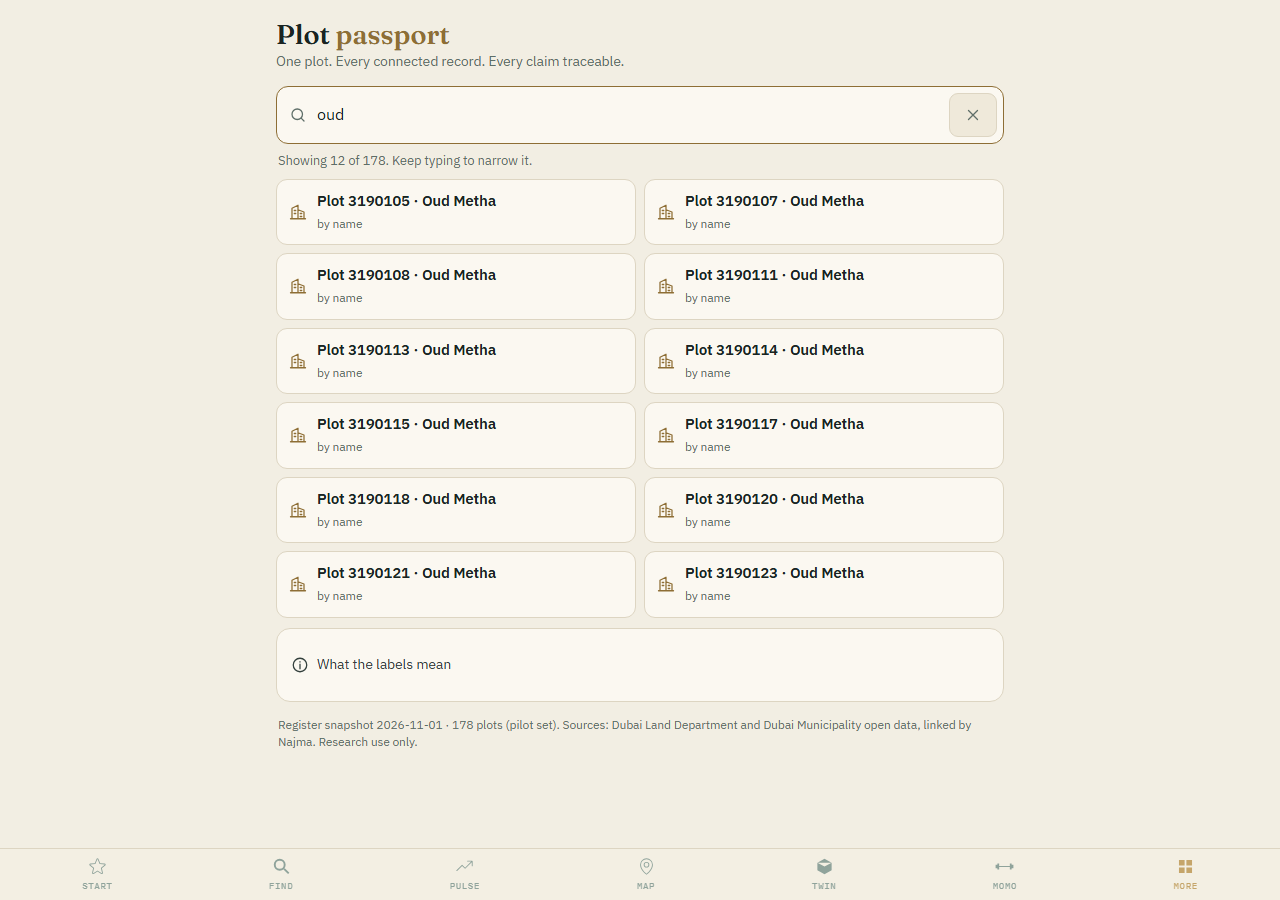
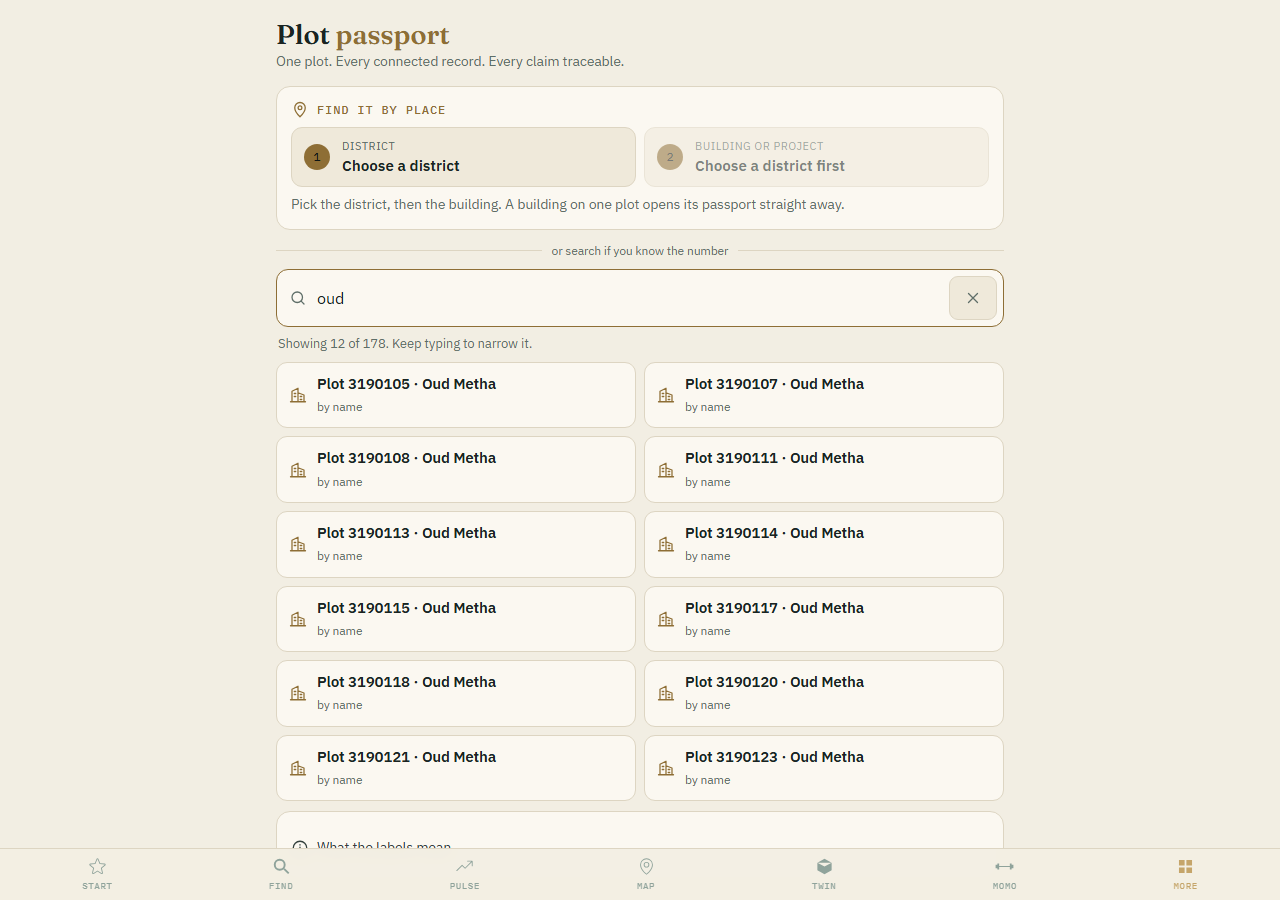
Plot Passport: browse by place (district -> building/project -> plot) in sheets with type-ahead, vacant-land option, single-plot auto-open, breadcrumb; pp_dl/pp_d_<district> routes. Not deployed.

Changed region(s): [[0.2188, 0.0933, 0.7812, 0.8711], [0.75, 0.0933, 0.7812, 0.1244]]

diff --git a/src/plot_passport.js b/src/plot_passport.js
@@ -121,6 +121,25 @@ h1{font-family:Fraunces,Georgia,serif;font-size:1.7rem;font-weight:600;margin:.2
 .legend .row{display:flex;gap:10px;align-items:flex-start;margin:8px 0;font-size:.84rem;color:var(--soft)}
 .note{color:var(--muted);font-size:.74rem;margin:14px 2px}
 .inf{border-style:dashed}
+.browse h2{margin-bottom:8px}.steps{display:grid;grid-template-columns:1fr;gap:8px}@media(min-width:620px){.steps{grid-template-columns:1fr 1fr}}
+.step{display:flex;gap:12px;align-items:center;text-align:left;min-height:60px;padding:10px 12px;border:1px solid var(--line);border-radius:11px;background:var(--raise);color:var(--ink);font:inherit;cursor:pointer;width:100%}
+.step:hover,.step:focus-visible{border-color:var(--gold)}.step:disabled{opacity:.55;cursor:default}
+.step .sn{flex:none;width:26px;height:26px;border-radius:50%;background:var(--gold);color:#0C1413;font-family:"IBM Plex Mono",monospace;font-size:.75rem;display:flex;align-items:center;justify-content:center}
+.step small{display:block;color:var(--muted);font-size:.7rem;letter-spacing:.04em}.step b{display:block;font-size:.95rem;overflow-wrap:anywhere}
+.or{display:flex;align-items:center;gap:10px;color:var(--muted);font-size:.74rem;margin:4px 0 10px}.or:before,.or:after{content:"";flex:1;height:1px;background:var(--line)}
+.scrim{position:fixed;inset:0;background:rgba(0,0,0,.45);z-index:60}.scrim[hidden],.sheet[hidden]{display:none}
+.sheet{position:fixed;left:0;right:0;bottom:0;z-index:61;max-height:86vh;display:flex;flex-direction:column;background:var(--card);border-top:1px solid var(--line);border-radius:16px 16px 0 0;padding:10px 16px calc(14px + env(safe-area-inset-bottom));box-shadow:0 -8px 30px rgba(0,0,0,.35)}
+@media(min-width:760px){.sheet{left:50%;right:auto;bottom:auto;top:8vh;width:560px;transform:translateX(-50%);border-radius:16px;border:1px solid var(--line);max-height:80vh}}
+.sheet .grab{width:40px;height:4px;border-radius:2px;background:var(--line);margin:0 auto 8px}
+.shd{display:flex;align-items:center;gap:8px;margin:0 0 8px}.shd b{flex:1;font-family:Fraunces,Georgia,serif;font-size:1.15rem}
+.sheet input{min-height:48px;border:1px solid var(--line);border-radius:10px;background:var(--raise);color:var(--ink);font:inherit;font-size:16px;padding:0 12px;width:100%}
+.sheet input:focus{outline:none;border-color:var(--gold)}
+.shl{overflow:auto;-webkit-overflow-scrolling:touch;margin-top:8px;flex:1}
+.opt{display:flex;gap:10px;align-items:center;width:100%;text-align:left;min-height:52px;padding:8px 10px;margin:0 0 6px;border:1px solid var(--line);border-radius:10px;background:var(--raise);color:var(--ink);font:inherit;cursor:pointer}
+.opt:hover,.opt:focus-visible{border-color:var(--gold)}.opt .ic{color:var(--gold)}.opt b{display:block;font-size:.92rem;overflow-wrap:anywhere}.opt small{color:var(--muted);font-size:.74rem}.opt.sp{border-style:dashed}
+.crumb{display:flex;flex-wrap:wrap;align-items:center;gap:4px;margin:0 0 10px;font-size:.82rem;color:var(--muted)}
+.crumb button{min-height:36px;padding:0 8px;border:0;border-radius:8px;background:transparent;color:var(--gold);font:inherit;font-weight:600;cursor:pointer;text-decoration:underline;text-underline-offset:3px}
+.crumb span[aria-current]{color:var(--ink);font-weight:600;padding:0 4px}
 `;
 
 const PP_JS = String.raw`(function(){
@@ -150,10 +169,10 @@ function search(){var v=q.value.trim();clr.hidden=!v;if(T)clearTimeout(T);if(v.l
       say(j.total>j.results.length?("Showing "+j.results.length+" of "+j.total+". Keep typing to narrow it."):(j.total===1?"One plot matches.":j.total+" plots match."));
       sug.innerHTML=j.results.map(function(r){return '<button type=button class=sg data-id="'+esc(r.id)+'">'+ic(r.kind==="name"?"bldg":"pin")+'<span><b>'+esc(r.label)+'</b><small>'+(r.kind==="name"?"by name":"by number")+'</small></span></button>'}).join("")}).catch(function(){say("Search is not reachable just now. Try again in a moment.")})},180)}
 
-function open(id,push){say("Opening the passport…");sug.innerHTML="";
+var CTX={};function open(id,push,ctx){CTX=ctx||{d:null,g:null};closeSheet();say("Opening the passport…");sug.innerHTML="";
   fetch("/plot_passport/p?"+kq()+"&id="+encodeURIComponent(id)).then(function(r){return r.json()}).then(function(j){if(!j.ok){say(j.error||"That plot is not in the passport data.");return}
     CUR=j.plot;say("");render();if(push!==false){try{history.pushState({id:id},"","/plot_passport?"+kq()+"&id="+encodeURIComponent(id))}catch(e){}}
-    var s=$("pp-sum");if(s)s.scrollIntoView({block:"start"})}).catch(function(){say("The passport could not be opened just now.")})}
+    var s=$("pp-crumb");if(s)s.scrollIntoView({block:"start"})}).catch(function(){say("The passport could not be opened just now.")})}
 
 function sentence(p){var a=[];var sq=p.sqm?(num(Math.round(p.sqm))+" sq m ("+num(Math.round(p.sqm*10.7639))+" sq ft)"):null;
   var use=(p.sub_type||p.land_type||"").toLowerCase();
@@ -167,7 +186,9 @@ function sentence(p){var a=[];var sq=p.sqm?(num(Math.round(p.sqm))+" sq m ("+num
   return a.join(" ")}
 
 function render(){var p=CUR;if(!p)return;var ttl="Plot "+(p.parcel||p.plot_no||p.id.replace("naj:plot:",""));document.title=ttl+" — Plot passport";
-  var h='<section class="card sum" id=pp-sum><p class=t>'+esc(ttl)+'</p><div class=w>'+esc([p.area_name,p.master||p.project].filter(Boolean).join(" · "))+'</div><p>'+esc(sentence(p))+'</p>'
+  var dn=CTX.d?CTX.d.name:(p.area_name||"District"),gn=CTX.g?CTX.g.name:null;
+  var h='<nav class=crumb id=pp-crumb aria-label="Where this plot sits"><button type=button data-crumb=d>'+esc(dn)+'</button><span aria-hidden=true>›</span>'+(gn?'<button type=button data-crumb=g>'+esc(gn)+'</button><span aria-hidden=true>›</span>':'')+'<span aria-current=page>'+esc(ttl)+'</span></nav>';
+  h+='<section class="card sum" id=pp-sum><p class=t>'+esc(ttl)+'</p><div class=w>'+esc([p.area_name,p.master||p.project].filter(function(v,i,a){return v&&a.indexOf(v)===i}).join(" · "))+'</div><p>'+esc(sentence(p))+'</p>'
    +'<div class=acts><a class="btn pri" target=_blank rel=noopener href="/plot_passport/report?'+kq()+'&id='+encodeURIComponent(p.id)+'">'+ic("print")+'Research report</a><button type=button class=btn id=ppcopy>'+ic("copy")+'Copy link</button></div></section>';
   h+='<nav class=jump aria-label="Sections"><a href="#pp-land">Land</a><a href="#pp-proj">Projects</a><a href="#pp-perm">Permits</a><a href="#pp-bldg">Buildings</a><a href="#pp-tl">Timeline</a><a href="#pp-src">Sources</a></nav>';
   h+='<div class=seg role=group aria-label="What to show"><button type=button data-view=d aria-pressed='+(VIEW==="d")+'>Direct facts</button><button type=button data-view=all aria-pressed='+(VIEW==="all")+'>Everything we hold</button></div>';
@@ -195,7 +216,35 @@ document.addEventListener("click",function(e){var t=e.target.closest("button,a")
   if(t.hasAttribute("data-more")){var c=t.parentNode;[].forEach.call(c.querySelectorAll(".it[data-x],li[data-x]"),function(n){n.hidden=false});t.remove();return}
   if(t.hasAttribute("data-det")){var d=t.parentNode.querySelector(".m[data-x]");if(d){d.hidden=!d.hidden;t.textContent=d.hidden?"How it was linked":"Hide"}return}
   if(t.id==="ppcopy"){try{navigator.clipboard.writeText(location.href);t.lastChild.textContent="Link copied"}catch(err){}return}
+  if(t.hasAttribute("data-opt")){var o=SH[+t.getAttribute("data-opt")];if(o)o.fn();return}
+  if(t.id==="ppshx"){closeSheet();return}
+  if(t.id==="ppb1"){districts();return}
+  if(t.id==="ppb2"){groups();return}
+  if(t.hasAttribute("data-crumb")){if(t.getAttribute("data-crumb")==="g"&&CTX.g){DC=CTX.d;pickG(CTX.g);return}
+    var sl=(CTX.d&&CTX.d.slug)||(CUR&&CUR.district);if(sl)pickD(sl);else districts();return}
   if(t.id==="ppclr"){q.value="";search();q.focus();return}});
+var sh=$("ppsheet"),scr=$("ppscrim"),shq=$("ppshq"),shl=$("ppshl"),SH=[],SHBACK=null,DL=null,DC=null,DCACHE={};
+function nq(s){return String(s||"").toLowerCase().replace(/[^a-z0-9]+/g," ").trim()}
+function hit(o,f){return !f||o.sticky||(" "+nq(o.t)).indexOf(" "+f)>=0||nq(o.t).indexOf(f)>=0}
+function drawSheet(){var f=nq(shq.value),n=0,m=0,h="";SH.forEach(function(o,i){if(!hit(o,f))return;if(!o.sticky)m++;if(n>=150)return;n++;h+='<button type=button class="opt'+(o.sticky?" sp":"")+'" data-opt="'+i+'">'+ic(o.i||"pin")+'<span><b>'+esc(o.t)+'</b>'+(o.s?'<small>'+esc(o.s)+'</small>':'')+'</span></button>'});
+  shl.innerHTML=h+(m>150?'<p class=empty>'+m+' match. Type more letters to narrow the list.</p>':'')+(!n?'<p class=empty>Nothing matches “'+esc(shq.value)+'” here.</p>':'')}
+function openSheet(title,items,ph,back){SH=items;SHBACK=back||document.activeElement;$("ppsht").textContent=title;shq.value="";shq.placeholder=ph||"Type the first few letters";shq.setAttribute("aria-label",ph||"Filter this list");drawSheet();sh.hidden=false;scr.hidden=false;try{shq.focus({preventScroll:true})}catch(e){}}
+function closeSheet(){if(sh.hidden)return;sh.hidden=true;scr.hidden=true;if(SHBACK&&SHBACK.focus)try{SHBACK.focus({preventScroll:true})}catch(e){}}
+function getJ(u){return fetch(u).then(function(r){return r.json()})}
+function districts(){if(DL){openSheet("Choose a district",DL.map(function(d){return {t:d.name,s:num(d.n)+" plots",i:"pin",fn:function(){pickD(d.slug)}}}),"Type a district, e.g. Business Bay",$("ppb1"));return}
+  getJ("/plot_passport/districts?"+kq()).then(function(j){DL=j.districts||[];if(!DL.length){say("The district list has not been loaded yet.");return}districts()}).catch(function(){say("The district list is not reachable just now.")})}
+function pickD(slug){var go=function(d){DC=d;$("ppb1v").textContent=d.name;$("ppb2").disabled=false;$("ppb2v").textContent="Choose a building or project";groups()};
+  if(DCACHE[slug])return go(DCACHE[slug]);getJ("/plot_passport/d?"+kq()+"&slug="+encodeURIComponent(slug)).then(function(j){if(!j.ok){say(j.error||"That district is not loaded yet.");return}DCACHE[slug]=j.district;go(j.district)}).catch(function(){say("That district is not reachable just now.")})}
+function kindW(k){return k==="b"?"building":k==="p"?"project":k==="m"?"master community":"buildings"}
+function groups(){if(!DC)return districts();var it=[];if(DC.vacant&&DC.vacant.length)it.push({t:"Plots without a building",s:num(DC.vacant.length)+" plots of vacant or unbuilt land",i:"land",sticky:true,fn:function(){pickG({name:"Plots without a building",plots:DC.vacant})}});
+  DC.groups.forEach(function(g){it.push({t:g[0],s:kindW(g[1])+" · "+(g[2].length===1?"1 plot":g[2].length+" plots"),i:g[1]==="m"?"land":g[1]==="p"?"crane":"bldg",fn:function(){pickG({name:g[0],plots:g[2]})}})});
+  openSheet(DC.name+": buildings and projects",it,"Type the first few letters of the building",$("ppb2"))}
+function pickG(g){$("ppb2v").textContent=g.name;if(g.plots.length===1){open(g.plots[0][0],true,{d:DC,g:g});return}
+  openSheet(g.name+": choose the plot",g.plots.map(function(x){return {t:x[1],i:"pin",fn:function(){open(x[0],true,{d:DC,g:g})}}}),"Type a plot number",$("ppb2"))}
+shq.addEventListener("input",drawSheet);
+shq.addEventListener("keydown",function(e){if(e.key==="Enter"){var f=shl.querySelector(".opt");if(f)f.click()}});
+document.addEventListener("keydown",function(e){if(e.key==="Escape")closeSheet()});
+scr.addEventListener("click",closeSheet);
 q.addEventListener("input",search);
 q.addEventListener("keydown",function(e){if(e.key==="Enter"){var f=sug.querySelector(".sg");if(f)open(f.getAttribute("data-id"))}});
 window.addEventListener("popstate",function(e){if(e.state&&e.state.id)open(e.state.id,false)});
@@ -212,6 +261,12 @@ export function plotPassportHtml(key, rk, meta, deps) {
     + "<style>" + PP_CSS + (deps.NAJ_NAV_CSS || "") + "html[data-theme=light] .nnav{background:rgba(242,238,227,.95);border-top-color:#DDD5C2}</style></head>"
     + '<body data-key="' + escH(key) + '" data-rk="' + escH(rk || "") + '">' + icTpl
     + '<h1>Plot <em>passport</em></h1><p class=sub>One plot. Every connected record. Every claim traceable.</p>'
+    + '<section class="card browse" aria-label="Find a plot by place"><h2>' + ic("pin") + 'Find it by place</h2><div class=steps>'
+    + '<button type=button class=step id=ppb1 aria-haspopup=dialog><span class=sn>1</span><span><small>DISTRICT</small><b id=ppb1v>Choose a district</b></span></button>'
+    + '<button type=button class=step id=ppb2 aria-haspopup=dialog disabled><span class=sn>2</span><span><small>BUILDING OR PROJECT</small><b id=ppb2v>Choose a district first</b></span></button>'
+    + '</div><p class=empty style="margin-top:8px">Pick the district, then the building. A building on one plot opens its passport straight away.</p></section>'
+    + '<div class=or>or search if you know the number</div>'
+    + '<div class=scrim id=ppscrim hidden></div><div class=sheet id=ppsheet hidden role=dialog aria-modal=true aria-labelledby=ppsht><div class=grab aria-hidden=true></div><div class=shd><b id=ppsht></b><button type=button class=btn id=ppshx aria-label="Close this list">' + ic("x") + '</button></div><input id=ppshq type=search autocomplete=off><div class=shl id=ppshl></div></div>'
     + '<div class=sbar role=search>' + ic("search") + '<input id=ppq type=search inputmode=search autocomplete=off placeholder="Parcel number, plot number or project name" aria-label="Search for a plot by parcel number, plot number, or project or building name"><button type=button class=btn id=ppclr hidden aria-label="Clear the search">' + ic("x") + "</button></div>"
     + '<div class=hint id=pphint aria-live=polite></div><div class=sug id=ppsug></div><div id=ppout></div>'
     + '<details class="card legend"><summary>' + ic("info") + "What the labels mean</summary>" + leg + "</details>"
@@ -257,6 +312,13 @@ export async function plotPassportRoutes(request, env, url, deps) {
   if (p !== "/plot_passport" && p.indexOf("/plot_passport/") !== 0) return null;
   if (!deps.clientOk(env, url)) return new Response("unauthorized", { status: 401 });
   const key = url.searchParams.get("key") || "";
+  if (p === "/plot_passport/districts") return json({ districts: (await readJson(env, "pp_dl")) || [] });
+  if (p === "/plot_passport/d") {
+    const slug = url.searchParams.get("slug") || "";
+    if (!/^[a-z0-9_]{1,60}$/.test(slug)) return json({ ok: false, error: "That is not a district." }, 400);
+    const d = await readJson(env, "pp_d_" + slug);
+    return d ? json({ ok: true, district: d }) : json({ ok: false, error: "That district is not loaded yet." }, 404);
+  }
   if (p === "/plot_passport/search") return json(await ppSearch(env, url.searchParams.get("q") || ""));
   if (p === "/plot_passport/p") {
     const id = url.searchParams.get("id") || "";

diff --git a/docs/ux/PLOT_PASSPORT_UX.md b/docs/ux/PLOT_PASSPORT_UX.md
@@ -18,6 +18,14 @@ Dubai REST (the Dubai Land Department app) and DLD property status pages were no
 ## 2. Design decisions
 
 1. **Three taps.** (1) Search with live suggestions. It accepts a parcel number (3190268), a municipality plot number (319-268), an area and land number (388/80), a Najma id, or a project or building name. Pressing Enter opens the top match. (2) The passport. (3) The research report (print or save as PDF), or "How it was linked" on any source. A link straight to a plot (`?id=`) opens it in one tap, so a passport can be shared in a message.
+1a. **Browse by place, for people who do not know the number** (Kendall, 2 Nov: "users won't know parcel numbers"). Above the search box: **1 District**, then **2 Building or project**, then the plot.
+   - *Why:* NN/g's work on browse and search ([Search vs. navigate](https://www.nngroup.com/articles/search-visible-and-simple/), [the scent of information](https://www.nngroup.com/articles/information-scent/)) shows that people who cannot name what they want rely on a hierarchy whose labels they recognise. A district and a tower name are what a broker or client actually knows. HM Land Registry offers a map and address route beside the title-number search for the same reason.
+   - *Pickers:* each step opens a sheet. It rises from the bottom on a phone and sits centred on desktop. Every sheet has a type-ahead filter, because Business Bay alone lists about 170 buildings and projects. The filter matches the first letters of any word (NN/g, [Mobile dropdowns](https://www.nngroup.com/articles/drop-down-menus/): long native dropdowns are hard to use on a phone; a filterable full-width list is the alternative).
+   - *Accessibility:* the sheet has `role=dialog` with a label and focus goes into the filter. Enter picks the top match, Escape closes the sheet, and focus returns to the step button.
+   - *Vacant land:* "Plots without a building" is always offered first in a district and stays visible while filtering. Plots with buildings but no registered name are grouped under "Buildings with no registered name", so no plot is unreachable.
+   - *Three taps:* a building on one plot opens its passport straight away (tap 1 district, tap 2 building). A project or master community on several plots lists them (tap 3). Picking a district opens its building list without an extra tap.
+   - *Breadcrumb:* District > Building > Plot sits above the summary. The district crumb reopens that district's buildings, and the building crumb reopens its plots. A plot opened from search shows its own district.
+   - *Data:* `pp_dl` lists the districts. `pp_d_<district>` holds `{name, groups: [[name, kind, [[plot id, label]]]], vacant}`. Groups are capped at 400 plots and vacant land at 1,500 per district. Business Bay comes to about 60 KB.
 2. **Plain words first.** The summary card is a single sentence a non-specialist can read out: area in sq m and sq ft, land use, district, what is on the plot, what is under way, and the date of the last recorded change.
 3. **One fixed order of cards:** Research flags, Land, Projects, Permits, Buildings, Timeline, Sources. A strip of section links jumps to any of them. Each card shows three items, then "Show all". Every card is present even when it is empty, and says so in words ("No building permit is linked to this plot"), because an absence is information too.
 4. **Strength chips on every fact.** *Direct match* (solid dot): the record carries this plot's own number. *Map-based estimate* (hollow dot): the link comes from a location or from a number quoted in text. *Project-level only* (square): the record belongs to the project, not the plot. Tapping a chip shows its one-line rule. Colour is never the only signal, because each chip also has a dot shape and a word.
